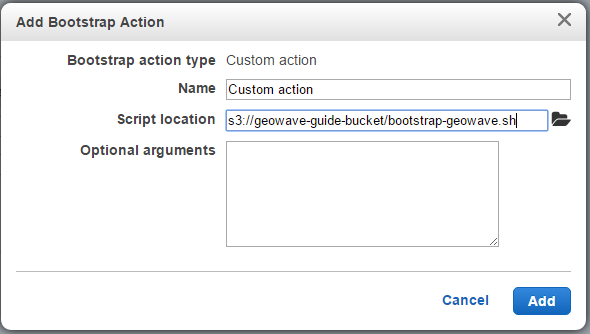
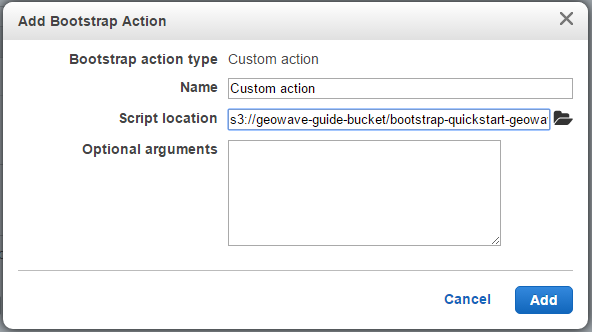
Lastest javadoc on successful travis build 3855 auto-pushed to gh-pages

diff --git a/quickstart.html b/quickstart.html
@@ -480,7 +480,7 @@ body.book #toc,body.book #preamble,body.book h1.sect0,body.book .sect1>h2{page-b
 <div class="sect2">
 <h3 id="creating-the-cluster"><a class="anchor" href="#creating-the-cluster"></a>Creating the Cluster</h3>
 <div class="paragraph">
-<p>Download the bootstrap-geowave.sh script <a href="https://s3.amazonaws.com/geowave-guide-bucket/bootstrap-geowave.sh">here</a> and upload it to your S3 bucket.</p>
+<p>Download the bootstrap-quickstart-geowave.sh script <a href="https://s3.amazonaws.com/geowave-guide-bucket/bootstrap-quickstart-geowave.sh">here</a> and upload it to your S3 bucket.</p>
 </div>
 <div class="paragraph">
 <p><strong>Note:</strong> You can also clone the GeoWave project from <a href="https://github.com/ngageoint/geowave">GitHub</a> and find the script under deploy/emr/4/gdelt-example/</p>
@@ -507,7 +507,7 @@ variables is given below the command.</p>
 --applications Name=Ganglia Name=Hadoop Name=Hue Name=Spark \
 --use-default-roles \
 --no-auto-terminate \
---bootstrap-actions Path=s3://${YOUR_BUCKET_NAME}/bootstrap-geowave.sh,Name=Bootstrap_GeoWave \
+--bootstrap-actions Path=s3://${YOUR_BUCKET_NAME}/bootstrap-quickstart-geowave.sh,Name=Bootstrap_GeoWave \
 --tags ${YOUR_TAGNAME} \
 --region ${YOUR_REGION} \</code></pre>
 </div>
@@ -920,7 +920,7 @@ is being done by the bootstrap script.</p>
 <p>Click the folder icon to bring up a list of available S3 buckets</p>
 </li>
 <li>
-<p>Select your folder and then select the bootstrap-geowave.sh file you uploaded at the beginning of this section</p>
+<p>Select your folder and then select the bootstrap-quickstart-geowave.sh file you uploaded at the beginning of this section</p>
 </li>
 </ul>
 </div>
@@ -1272,7 +1272,7 @@ layers. This can also be done by the user through the geoserver GUI.</p>
 <div class="sect2">
 <h3 id="version"><a class="anchor" href="#version"></a>Version</h3>
 <div class="paragraph">
-<p>This documentation was generated for GeoWave version 0.9.3-SNAPSHOT from commit a19c919dccd1da067e085fe3e255a0218baafd9e.</p>
+<p>This documentation was generated for GeoWave version 0.9.3-SNAPSHOT from commit 490b6c984ae4b181146b982917c2c6885b52a4a9.</p>
 </div>
 <div style="page-break-after: always;"></div>
 </div>
@@ -1428,7 +1428,7 @@ button.</p>
 </div>
 <div id="footer">
 <div id="footer-text">
-Last updated 2016-09-01 16:05:59 UTC
+Last updated 2016-09-02 06:56:05 UTC
 </div>
 </div>
 </body>

diff --git a/documentation.html b/documentation.html
@@ -5530,7 +5530,7 @@ mvn -P docs install</code></pre>
 <div class="sect2">
 <h3 id="version"><a class="anchor" href="#version"></a>Version</h3>
 <div class="paragraph">
-<p>This documentation was generated for GeoWave version 0.9.3-SNAPSHOT from commit a19c919dccd1da067e085fe3e255a0218baafd9e.</p>
+<p>This documentation was generated for GeoWave version 0.9.3-SNAPSHOT from commit 490b6c984ae4b181146b982917c2c6885b52a4a9.</p>
 </div>
 </div>
 <div class="sect2">
@@ -5581,7 +5581,7 @@ mvn -P docs install</code></pre>
 </div>
 <div id="footer">
 <div id="footer-text">
-Last updated 2016-09-01 16:05:59 UTC
+Last updated 2016-09-02 06:56:05 UTC
 </div>
 </div>
 </body>
